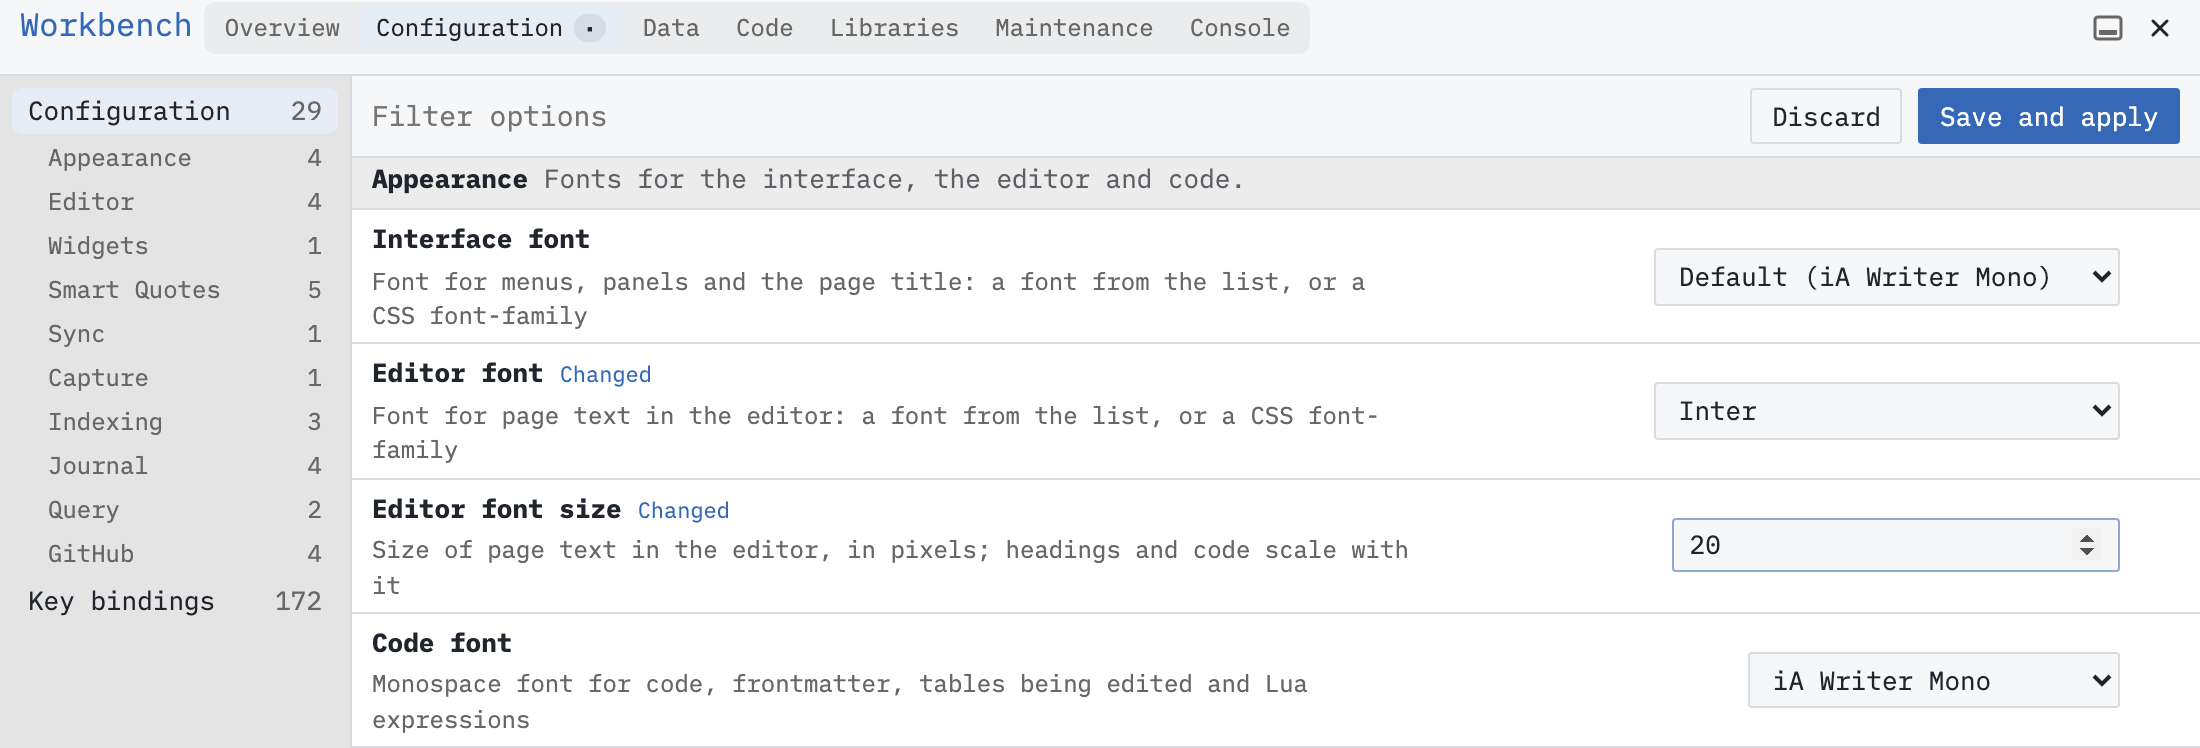
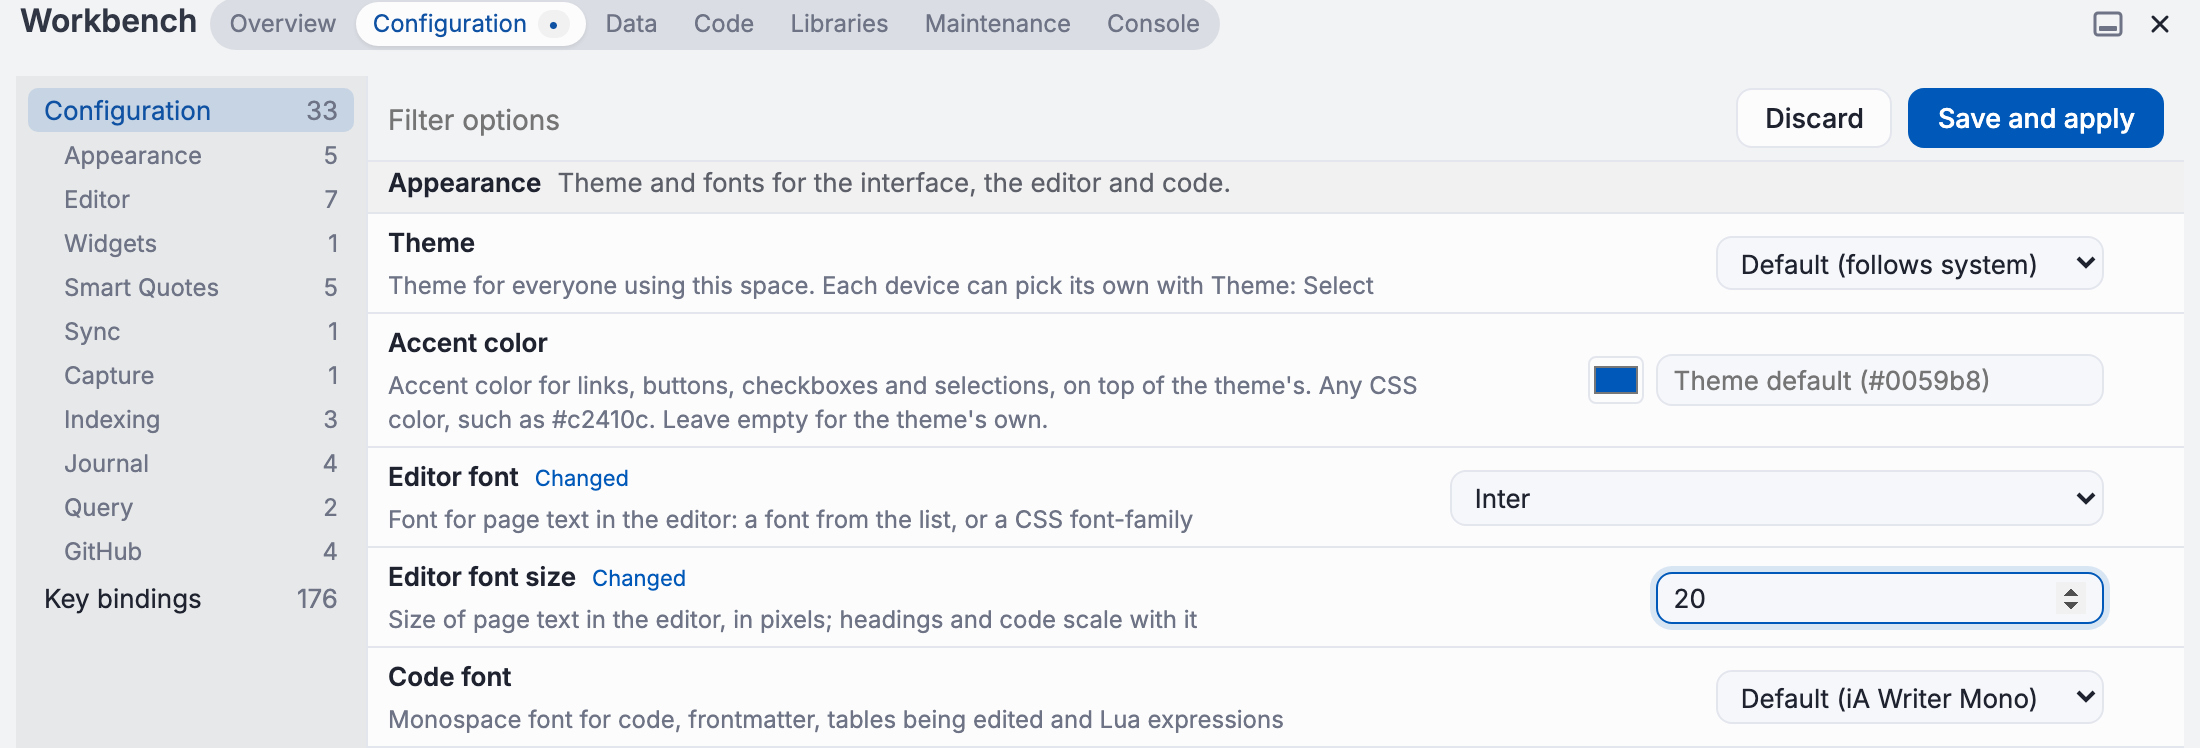
docs(guide): add theming and the markup bar to the getting-started guides, update screenshots

diff --git a/docs/Guide/Make it your own.md b/docs/Guide/Make it your own.md
@@ -1,8 +1,19 @@
 ---
-description: "Choose fonts, change shortcuts and discover libraries through Workbench."
+description: "Choose fonts and a theme, change shortcuts and discover libraries through Workbench."
 tags: guide
 ---
-You can change how SilverBullet looks and behaves without writing code. Let’s try a different font, adjust a keyboard shortcut and look at the [[Library|Libraries]] you can install.
+You can change how SilverBullet looks and behaves without writing code. Let’s try a different font, pick a theme, adjust a keyboard shortcut and look at the [[Library|Libraries]] you can install.
+
+# Discover libraries
+Switch to the **Libraries** tab in the Workbench. [[Library|Libraries]] are SilverBullet’s way to distribute customizations and new (often community created) functionality.
+
+**Installed** shows what your space already has installed. **Available** lists libraries offered by its repositories, which are catalogs of libraries you can install.
+
+![The Libraries tab filtered to diagram libraries, showing Installed and Available sections and Install buttons.](../Screenshots/customization-libraries.png)
+
+Use **Filter libraries** to narrow the list, as shown above for diagrams. Libraries can add fonts, themes, templates, commands and other features. Filter for “theme” to see the themes on offer. An installed theme shows up in the Theme list right away. Browse their descriptions and open a library’s title to read more. 
+
+When you find one you want, click **Install** and follow its instructions. Libraries can run code in your space, so choose sources you trust. Use the installed library’s ⋯ menu to **Remove** it later. **Check for updates** looks for newer versions. Built-in libraries cannot be removed. [[Workbench/Libraries]] covers the controls in detail.
 
 # Get comfortable
 Open any page with some text, then press **Cmd-,** on macOS or **Ctrl-,** on Windows/Linux to open Configuration in [[Workbench]]. You can also open the command palette with **Cmd-/** or **Ctrl-/** and run **Workbench: Configuration**.
@@ -14,6 +25,13 @@ The interface, page text and code each have their own font setting. Try the buil
 
 To undo a saved setting, open its ⋯ menu, choose **Reset to default**, then **Save and apply** again.
 
+# Pick a theme
+A [[Theming|theme]] sets SilverBullet’s colors. Still under **Appearance**, open the **Theme** list. Pick one and click **Save and apply**.
+
+Want your own touch without a whole new theme? Pick an **Accent color**, also under Appearance. It recolors links, buttons, checkboxes and selections in whatever theme is active. Clear it to get the theme’s own color back.
+
+The theme you save here is for the whole space. To try themes on just this device, open the command palette and run ${widgets.commandButton("Theme: Select")}: your choice there wins over the space’s theme, and other people sharing the space won’t see it.
+
 # Choose a shortcut
 In Configuration, select **Key bindings** and use the filter to find a command you use often. **Journal: Today** is one option if you keep a journal.
 
@@ -24,17 +42,6 @@ In Configuration, select **Key bindings** and use the filter to find a command y
 
 The command’s ⋯ menu offers **Reset** if you want its default bindings back. Save again to apply that reset. See [[Keyboard Shortcuts]] for reserved keys and shortcuts made of several keystrokes.
 
-# Discover libraries
-Switch to the **Libraries** tab in the Workbench. [[Library|Libraries]] are SilverBullet’s way to distribute customizations and new (often community created) functionality.
-
-**Installed** shows what your space already has installed. **Available** lists libraries offered by its repositories, which are catalogs of libraries you can install.
-
-![The Libraries tab filtered to diagram libraries, showing Installed and Available sections and Install buttons.](../Screenshots/customization-libraries.png)
-
-Use **Filter libraries** to narrow the list, as shown above for diagrams. Libraries can add fonts, themes, templates, commands and other features. Browse their descriptions and open a library’s title to read more. 
-
-When you find one you want, click **Install** and follow its instructions. Libraries can run code in your space, so choose sources you trust. Use the installed library’s ⋯ menu to **Remove** it later. **Check for updates** looks for newer versions. Built-in libraries cannot be removed. [[Workbench/Libraries]] covers the controls in detail.
-
 # Where your changes live
 Configuration saves your settings and shortcuts in a page called [[^Library/Config]]. They belong to the space, so in a shared space they also affect other people using it.
 
@@ -43,5 +50,5 @@ Workbench writes the configuration as [[Space Lua]] for you. You can inspect [[^
 # Go further
 * [[Page Template]] and [[Slash Templates]] let you reuse content when creating pages or inserting sections.
 * [[Space Lua]] lets you add your own commands, views and behavior.
-* [[Theming]] explains how to pick a theme for your space or just this device, and how to write your own.
+* [[Theming]] explains how themes are applied and how to adjust one, and [[Theming/Creating a Theme]] how to write your own.
 * [[Space Style]] lets you change colors, spacing and other styling with CSS.

diff --git a/docs/Guide/My First Markdown Page.md b/docs/Guide/My First Markdown Page.md
@@ -37,16 +37,16 @@ As you’ll notice as you type, the markdown codes disappear when you move out y
 
 ![Photo Walk with formatted headings, three task checkboxes and a Woodland Hike link.](../Screenshots/markdown-basics-preview.png)
 
-A blank line separates paragraphs. `# Plan` becomes a heading, `*` starts a bullet, and `* [ ]` becomes an unchecked task. `[x]` is a completed task. `[[Woodland Hike]]` is a link to a page named `Woodland Hike`. The destination does not have to exist yet: follow the link and write content there whenever you’re ready to create it.
+A blank line separates paragraphs. `# Plan` becomes a heading, `*` starts a bullet, and `* [ ]` becomes an unchecked task. `[x]` is a completed task. `[[Woodland Hike]]` is a link to a page named `Woodland Hike`. The destination does not have to exist yet: follow the link and write content there whenever you’re ready to create it. You can follow links by clicking them or by by hitting `Command-Enter` (macOS) or `Ctrl-Enter` (Windows, Linux).
 
-#protip While you can type all this markdown by hand, you don’t have to. Try a [[Slash Command]]. Type `/today` to insert today’s date, or `/task` to turn the current line into a task. Or `/h1` to create a heading. You can edit the markdown it inserts just like anything you typed yourself.
+#protip While you can type all this markdown by hand, you don’t have to. Try a [[Slash Command]]. Type `/today` to insert today’s date, or `/task` to turn the current line into a task. Or `/h1` to create a heading.  Alternatively, use the [[Markup Bar]].
 
 #protip Use **Alt/Option-click** on any rendered element if you need to reveal its source and move your cursor there.
 
 And in case you were wondering — SilverBullet saves edits automatically. There is no Save button.
 
 # Dive into [[Markdown]]
-Now that we have a page, let’s try a few more things. You can add these examples to `Photo Walk`, either by typing them out or copying and pasting them.
+Now that we have a page, let’s try a few more things. 
 
 ## Bold and italic text
 ```markdown
@@ -55,7 +55,7 @@ Bring **a charged battery** and wear _comfortable shoes_.
 
 We don’t want to forget that battery, so let’s make it **bold** by putting two asterisks on either side. For _italics_, use an underscore on either side, as with the comfortable shoes.
 
-#protip There are keyboard shortcuts for many markdown codes, including bold (**Cmd-b** on Mac, **Ctrl-b** on Linux and Windows), italic (**Cmd-i** on Mac, **Ctrl-i** on Linux and Windows), discover them by bringing up the [[Command Palette]] (**Cmd-/** on Mac, **Ctrl-/** on Linux and Windows).
+#protip There are keyboard shortcuts for many markdown codes, including bold (**Cmd-b** on Mac, **Ctrl-b** on Linux and Windows), italic (**Cmd-i** on Mac, **Ctrl-i** on Linux and Windows). Alternatively, when you select text you’ll also see the [[Markup Bar]] appear, and you can select an option from that to apply it.
 
 ## Headings and lists
 We already used `# Plan` and `# Pack` to give our page some structure. You can go a level deeper with `##`, and deeper still with `###`. Just leave a space after the `#` characters. Let’s add a route:

diff --git a/docs/SilverBullet.md b/docs/SilverBullet.md
@@ -5,9 +5,9 @@ You were told there’s [no such thing as a silver bullet](https://en.wikipedia.
 SilverBullet is _indie software_. If you use it, please help us [keep the project financially sustainable](https://silverbullet.md/funding).
 
 # The premise
-SilverBullet helps you keep and organize your personal and team knowledge as (primarily) _Markdown files under your control_. It is a tool designed to scale from just a nice and clean markdown note taking experience, to a super-advanced, seemingly custom-built knowledge base with structured data, queries and fitting your custom workflows. Check our [use cases](https://silverbullet.md/explore) page for examples of what’s possible.
+SilverBullet helps you keep and organize your personal and team knowledge as (primarily) _Markdown files under your control_. It is a tool designed to scale from just a nice and clean markdown note taking experience, to a super-advanced, seemingly custom-built knowledge base with structured data, queries and fitting all your custom workflows. Check our [use cases](https://silverbullet.md/explore) page for examples of what’s possible.
 
-The great thing: this is all possible _within one tool_ through the powerful combination of markdown and Lua scripting. Learn it, and the sky is the limit. And don’t worry too much about the “scripting” part — you can get quite far by having SilverBullet generate a lot of the code for you, check [[Workbench]].
+The great thing: this is all possible _within one tool_ through the powerful combination of [[Markdown]] and [[Space Lua|Lua]] scripting. Learn it, and the sky is the limit. And don’t worry too much about the “scripting” part — you can get quite far by having SilverBullet generate a lot of the code for you, check [[Workbench]].
 
 # Find your way
 * [[Getting Started|Start here]] — learn [[Markdown]], connect [[Page|Pages]], add [[Tag|Tags]], try queries in [[Workbench]].

diff --git a/docs/Guide/Find and Connect Pages.md b/docs/Guide/Find and Connect Pages.md
@@ -37,7 +37,7 @@ Double-click a page’s node to open it. Scroll or pinch to zoom, and drag empty
 
 The graph gives you another way to explore your pages through links you have already created. It needs no tags or queries. See [[Graph View]] for filters, additional relationships and docking options.
 
-# The linking habit
+### The linking habit
 #protip As you will discover, it is beneficial to _link liberally_. If you think some word or concept is significant and may need more elaboration (its own page) later — link it! Even if you don’t create the page you link to yet, it’s worth linking to. Once you linked to it once, future auto completes after typing `[[` will show it _even if it doesn’t exist yet_. Later you can create the page, even as one without content just so you can see all the locations that link to it with [[Linked Mention|Linked Mentions]].
 
 # Find a page without a link

diff --git a/docs/Getting Started.md b/docs/Getting Started.md
@@ -1,14 +1,12 @@
 ---
 tags: guide
 ---
-Welcome to SilverBullet! Let’s get cracking with these guides:
+Welcome to SilverBullet! Let’s get you started with these guides:
 
 * [[Guide/My First Markdown Page|Your first Markdown page]] — write a photo-walk plan with headings, bullets and tasks.
 * [[Guide/Find and Connect Pages|Find and connect pages]] — create a linked hiking plan, discover backlinks and explore Graph View.
 * [[Guide/Add Structure and Query|Add Structure and Query]] — tag pages, add attributes and build a live overview in Workbench.
 * [[Guide/Make it your own]] — choose fonts, change shortcuts and discover libraries through Workbench.
-
-/
 
 # What’s next?
 [[Guides]] covers practical tasks such as finding pages, managing tasks and building useful queries.
